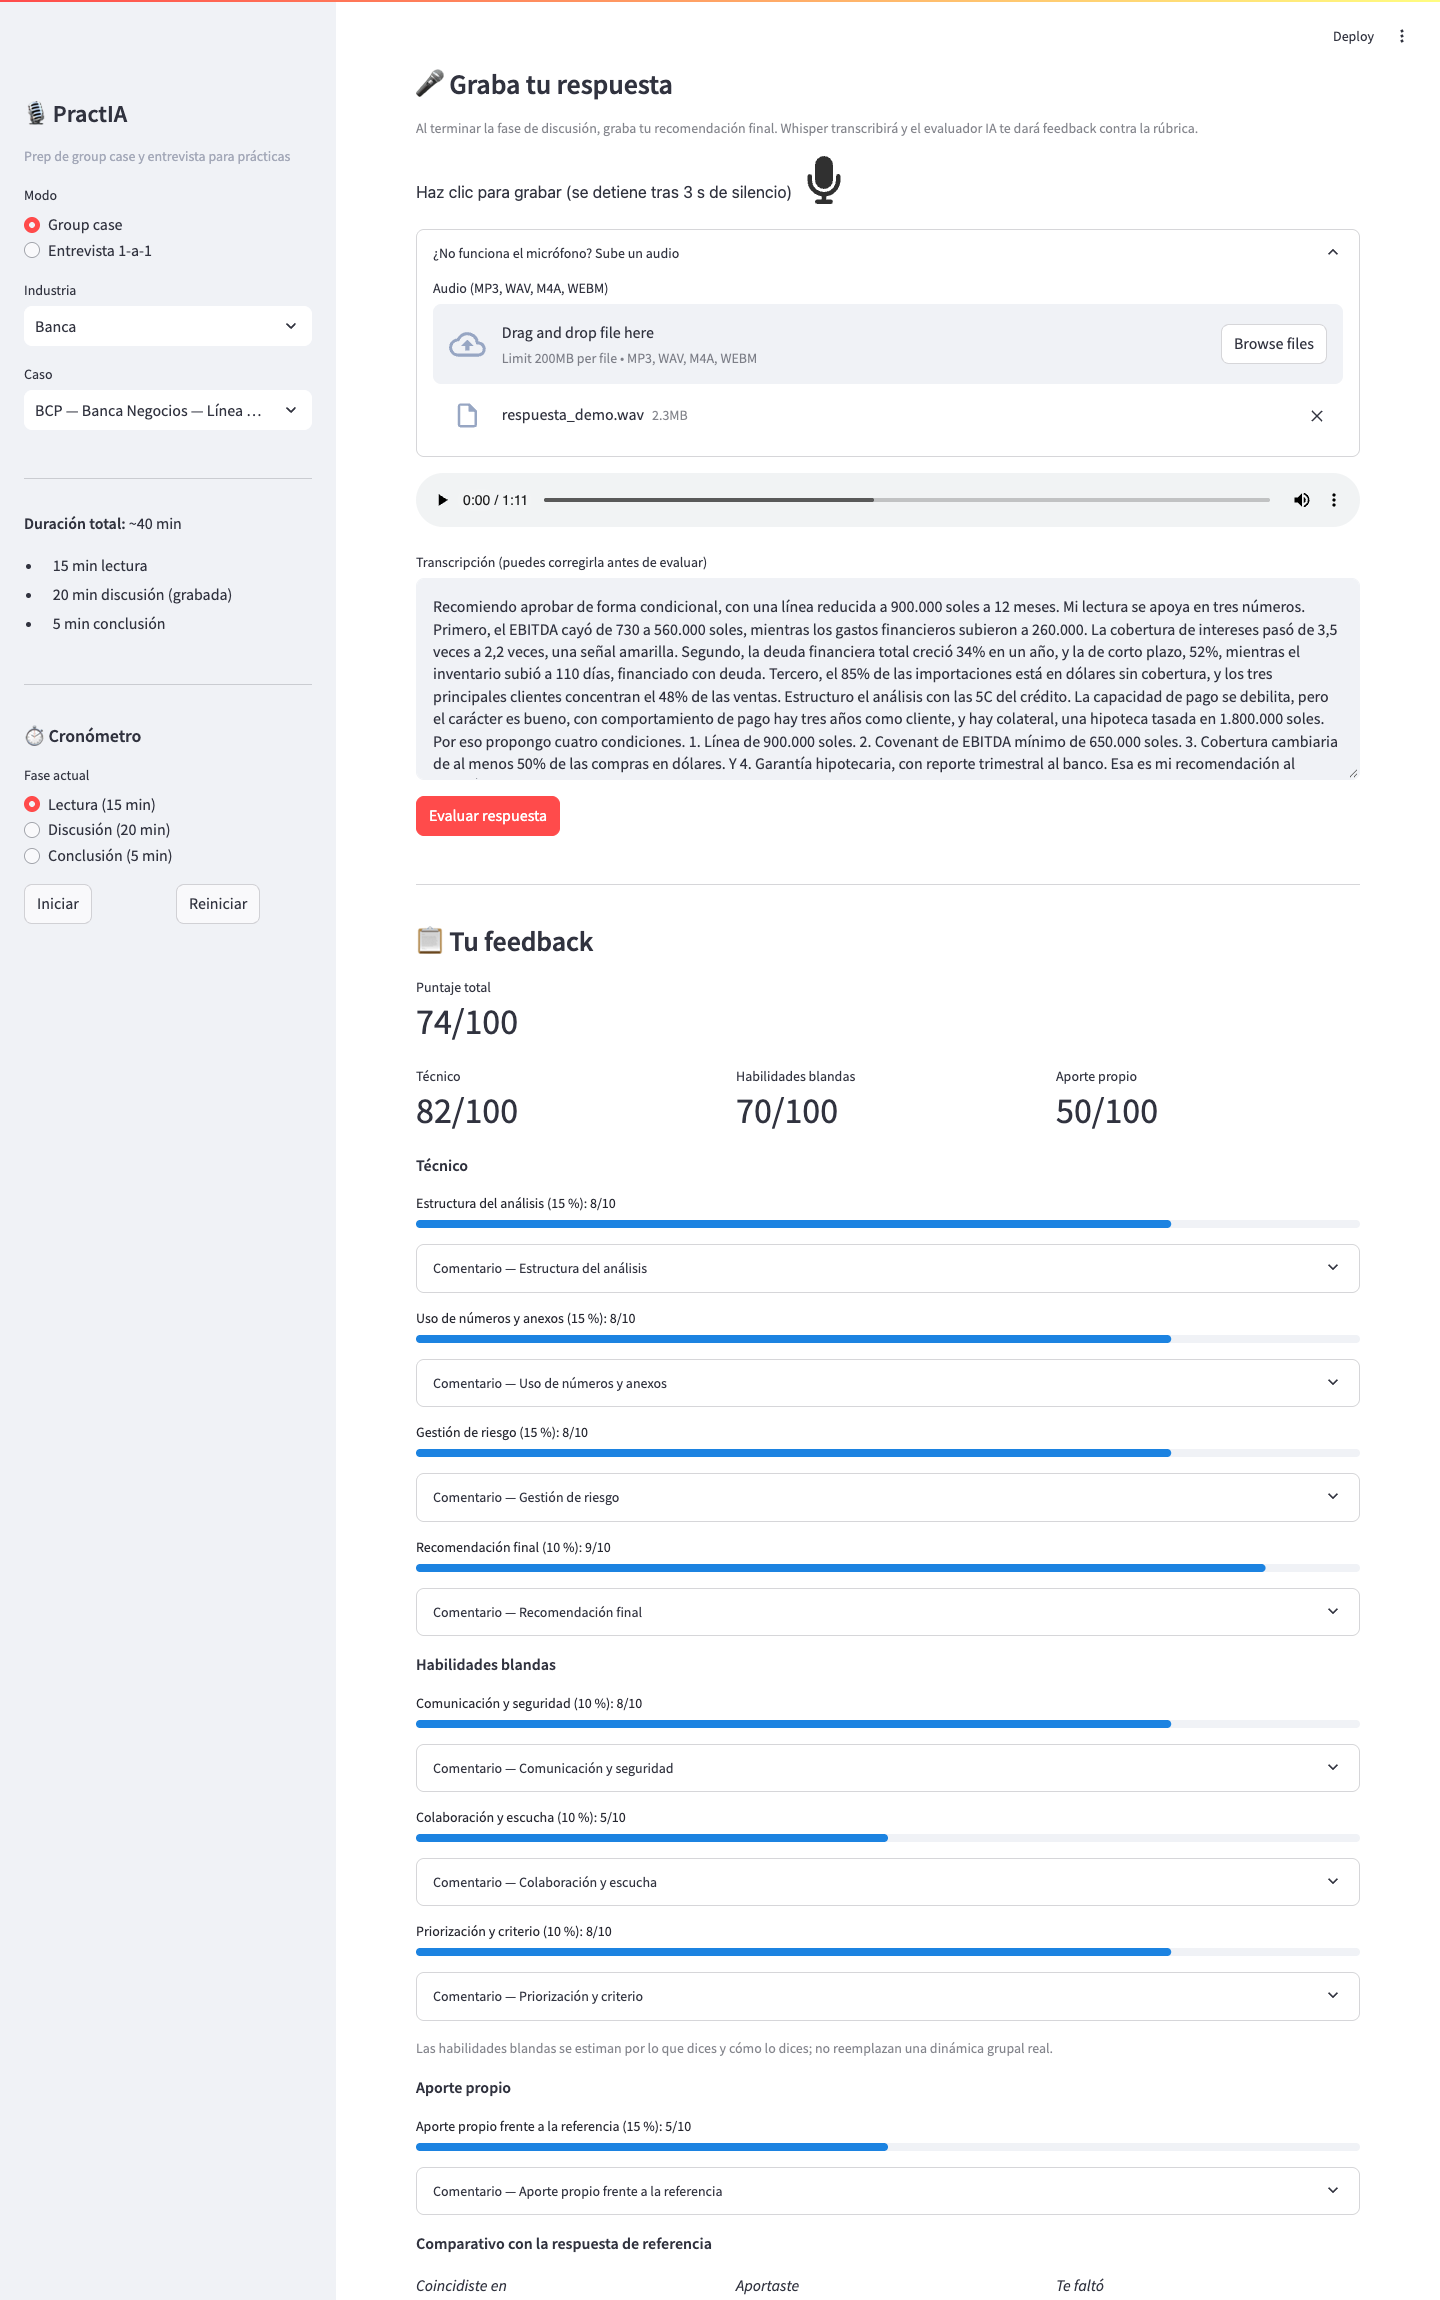
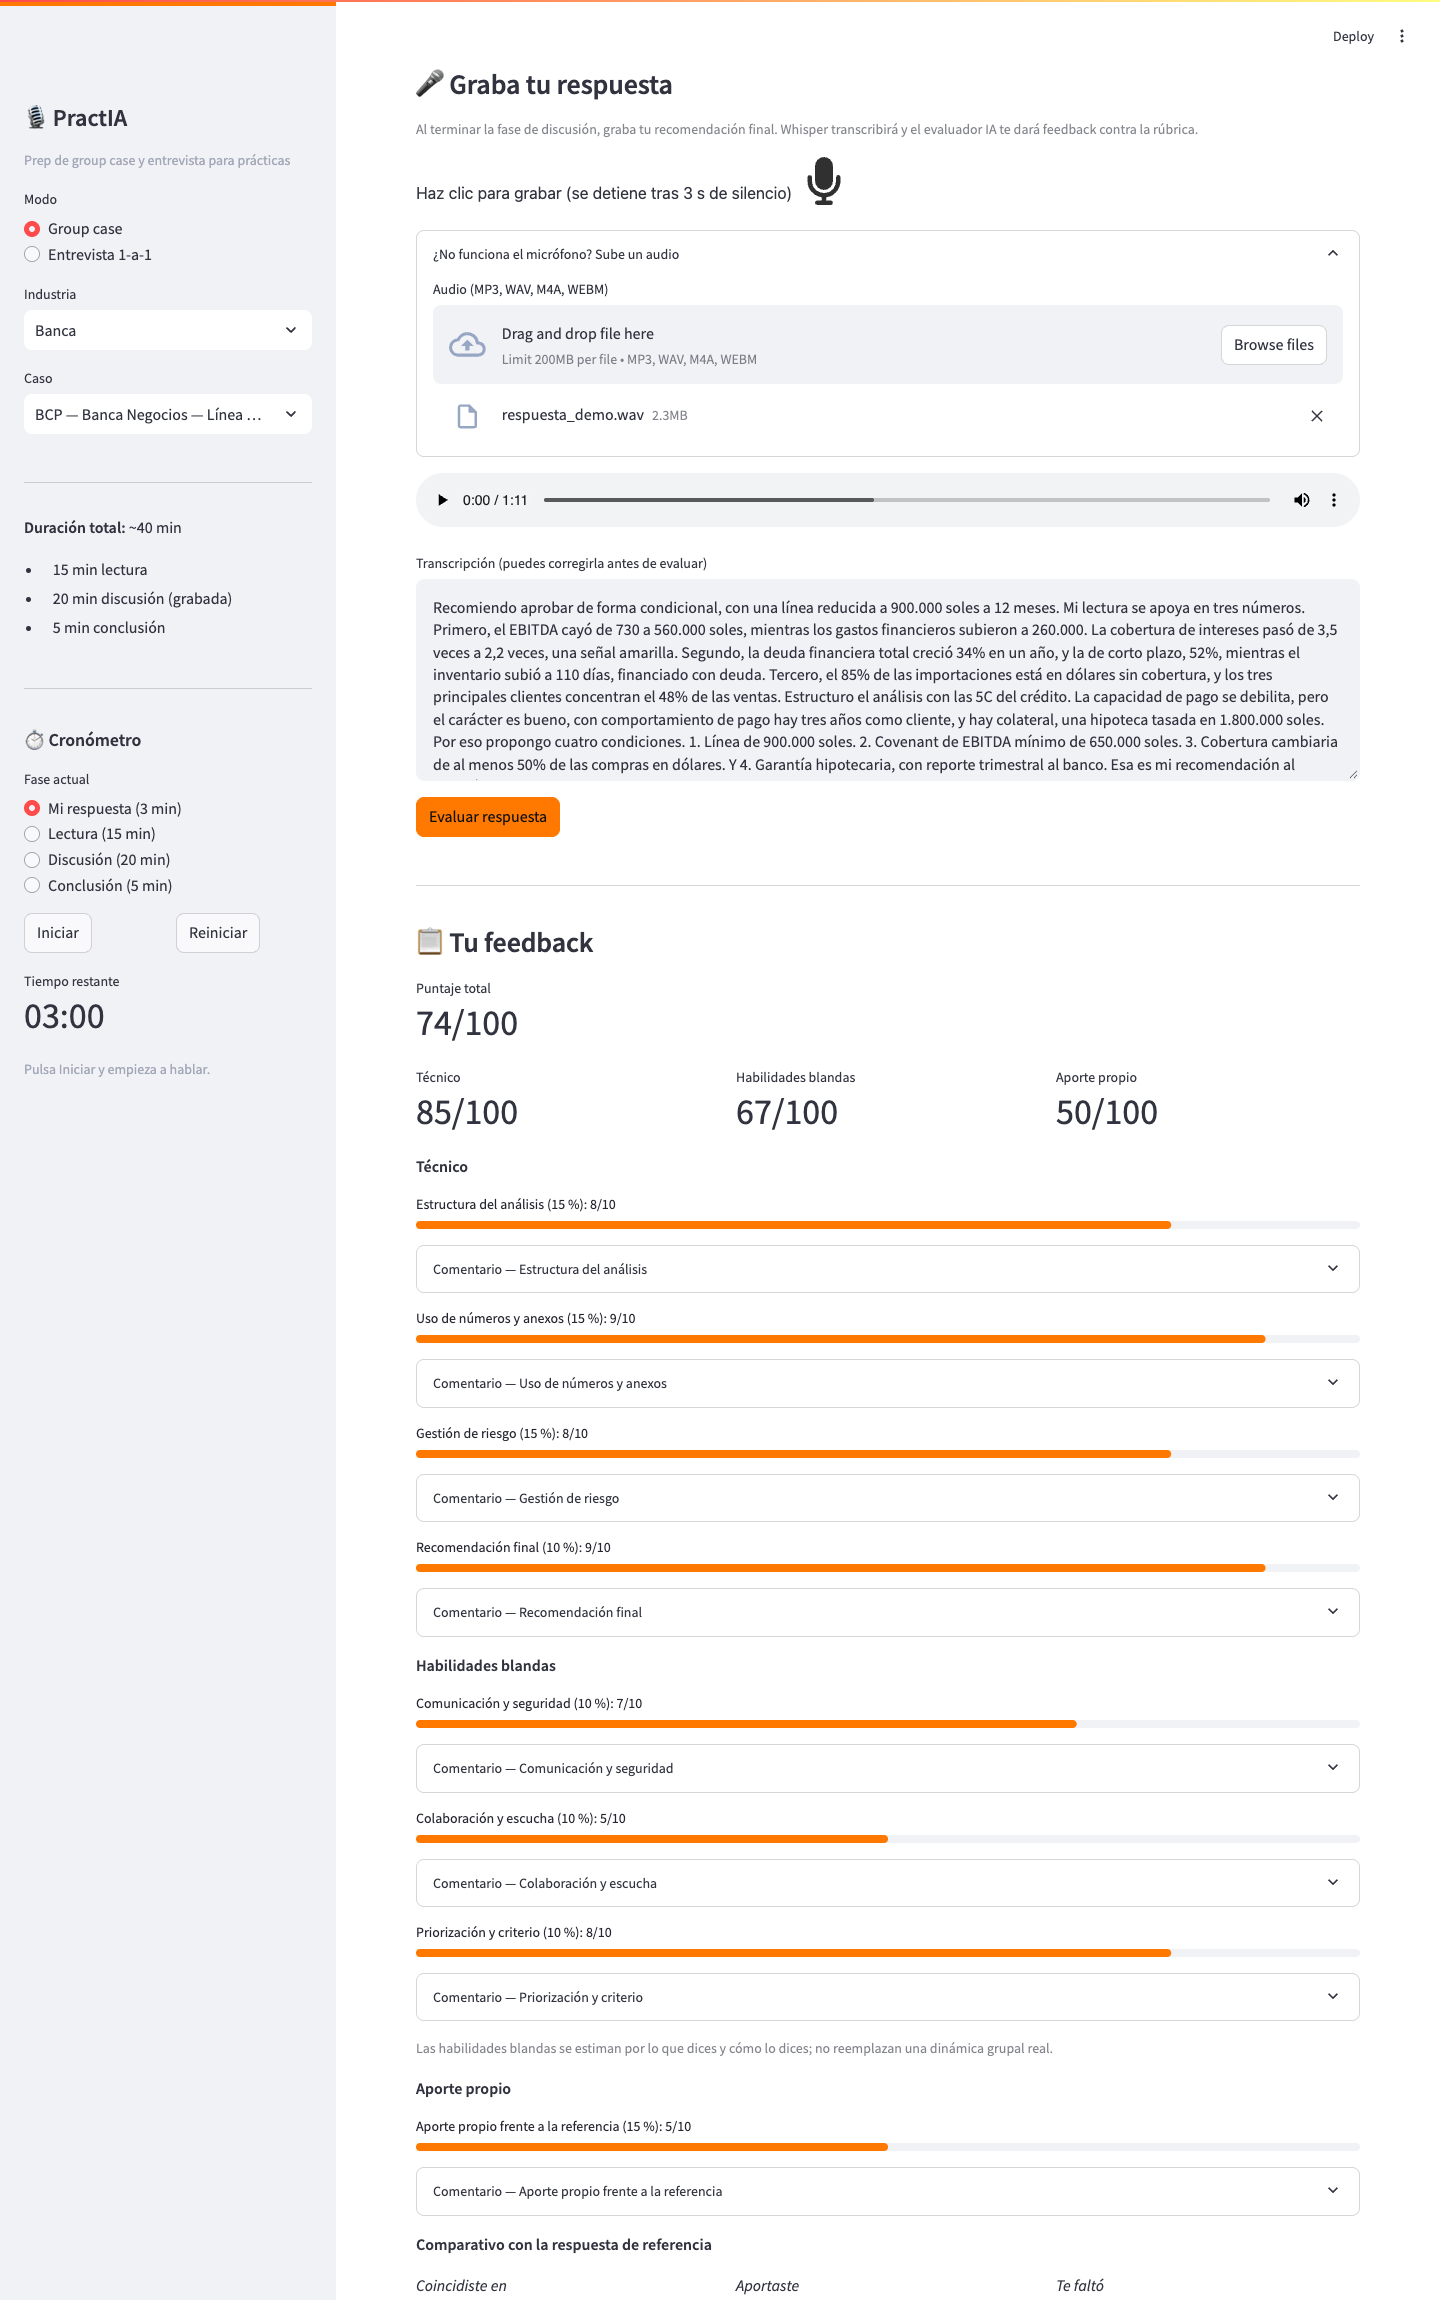
docs: documento el tema por empresa y actualizo las capturas
Capturas regeneradas con la interfaz nueva y la API real de Groq.

diff --git a/CLAUDE.md b/CLAUDE.md
@@ -49,6 +49,8 @@ Esto NO es un proyecto libre. Hay restricciones duras:
 - Cada caso puede traer `criterios_no_aplican` (lista de nombres) cuando no pide algo que la rúbrica evalúa; hoy `consultoria_01` (no pide recomendación). Su peso se reparte dentro del mismo tipo.
 - Los 9 casos originales con pista corta tienen además `respuesta_referencia` (respuesta completa, preparada con Claude y verificada contra los anexos); `consultoria_03`, `banca_04` y `consultoria_04` usan su pista, que ya es completa.
 - Guion final (`ai/guion.py`, prompt en `ai/prompts/guion_system.md`): botón aparte tras evaluar (una 2.ª llamada al LLM, ~3.5K tokens, para no cargar la evaluación; si acabas de evaluar hay que esperar ~1 min por el límite de 8K/min). Parte de la respuesta del estudiante e incorpora el contraste (le faltó / aportó / a mejorar); apunta a 400-450 palabras (reintenta si <360 o >470) y calcula el tiempo de cada bloque por palabras (150/min), no por lo que diga el modelo. `app/pdf_export.py::guion_to_pdf` arma el PDF único; normaliza con NFKC los espacios y guiones no separables que escribe el LLM (salían como "?").
+- Identidad visual (`app/theme.py`): tema por empresa (`EMPRESAS`, buscado en `case["company"]`), con fallback al de la industria y uno propio para el modo entrevista. Solo genera HTML/CSS (escapado con `html.escape`); `case_view` inyecta el CSS y pinta la franja y la misión. Los colores deben cumplir contraste WCAG AA (texto blanco sobre `oscuro` y texto del monograma sobre `acento`, >= 4.5): hay prueba. La barra de progreso de Streamlit anida 3 capas, el relleno es `[role=progressbar] > div > div > div`.
+- Recorrido guiado: `main()` crea un contenedor arriba y lo llena al final (`_paso_actual`), porque el estado de la corrida actual recién está actualizado después de `recording_view`. Historial de intentos en `st.session_state.historial[case_id]` (solo de la sesión, sin base de datos). `punto_debil_view` busca con el RAG (`solo_preguntas=True`) preguntas del banco para el criterio más bajo (<= 7/10), sin llamar al LLM.
 - Cronómetro (`app/main.py::timer_view`): cuenta regresiva con `st.fragment(run_every=1)` solo mientras corre; la fase fija el objetivo y no afecta la evaluación (el evaluador solo ve la longitud en palabras).
 - El modelo gpt-oss usa `reasoning_effort=low` (`GROQ_REASONING_EFFORT`) para gastar menos tokens.
 

diff --git a/README.md b/README.md
@@ -40,6 +40,8 @@ Hoy:
 5. El evaluador IA puntúa contra una rúbrica por industria con tres tipos de criterio: **técnicos (55 %)**, **habilidades blandas (30 %)** (comunicación y seguridad, colaboración y escucha, priorización) y **aporte propio (15 %)**, que compara tu respuesta con una respuesta de referencia del caso preparada con Claude. Devuelve el puntaje total y por tipo, el comparativo con la referencia (en qué coincidiste, qué aportaste y qué te faltó) y red flags. Las habilidades blandas se estiman por lo que dices y no reemplazan una dinámica grupal real. Se puede descargar en PDF.
 6. Un botón arma un **guion final** de ~3 minutos que combina tu respuesta con el contraste de la IA (lo que te faltó, lo que aportaste, tus puntos a mejorar) y lo baja en **un solo PDF** para practicar: guion con tiempos por bloque, qué cambió, contraste con la referencia y tu respuesta original.
 
+**Identidad por empresa y extras de práctica:** cada caso se pinta con los colores y el monograma de su empresa (franja con tipo de caso, duración y anexos, y la tarjeta "Tu misión" con lo que se evalúa); un **recorrido guiado** (Leer → Responder → Evaluar → Guion final) marca en qué paso vas; el **historial de intentos** muestra la diferencia frente al intento anterior y un gráfico de progreso; y **"Entrena tu punto más débil"** usa el RAG para recomendarte preguntas reales del banco según tu criterio más bajo. Los colores están inspirados en cada marca (sin logos) y cumplen contraste de accesibilidad WCAG AA.
+
 ### Módulo 2 — Prep de entrevista individual con el jefe final
 
 El **jefe final** es el gerente o jefe del área que cierra el proceso. PractIA lo simula:
@@ -138,6 +140,7 @@ practia/
 ├── CLAUDE.md              # Contexto para Claude Code
 ├── app/
 │   ├── main.py            # Streamlit app (selector de modo: group case / entrevista 1-a-1)
+│   ├── theme.py           # Identidad visual por empresa/industria (colores, franja, recorrido)
 │   ├── pdf_export.py      # Feedback a PDF (reportlab)
 │   └── components.py      # (por construir)
 ├── ai/
